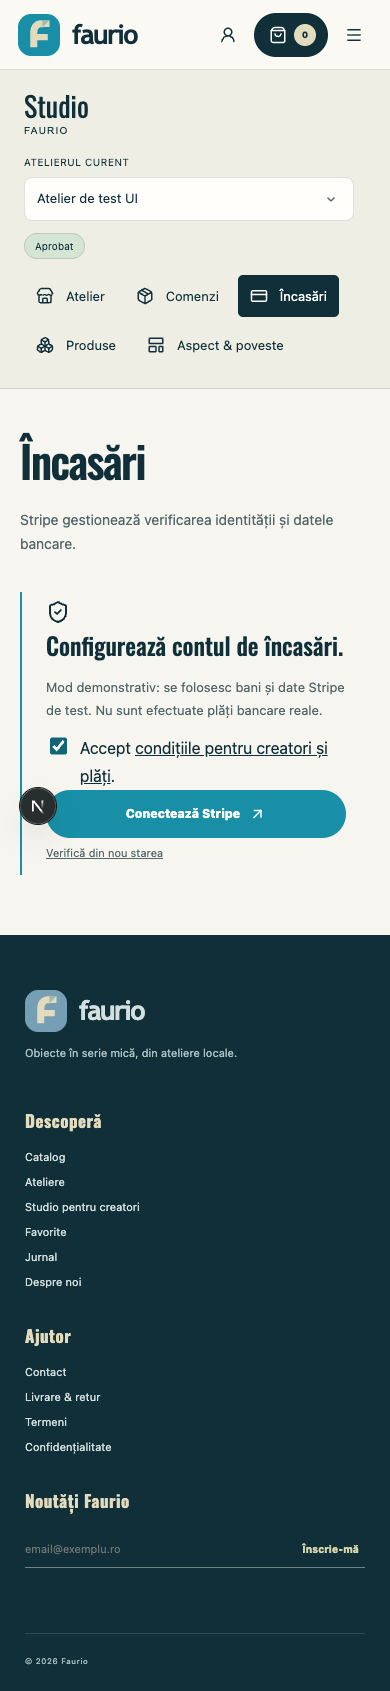
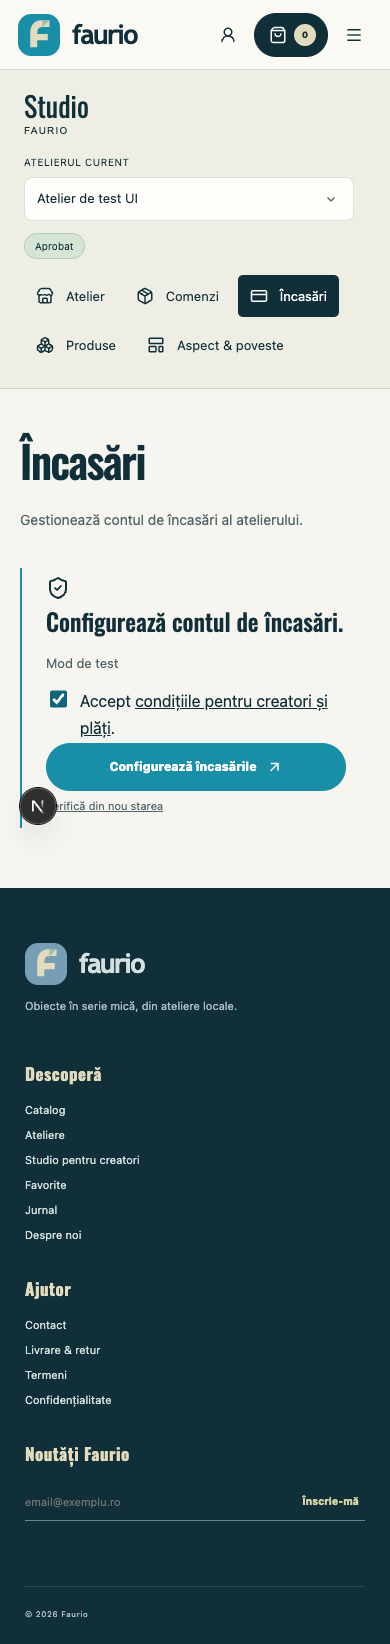
Allow authors to delete reviews and clarify payment onboarding failures

diff --git a/components/product-feedback.tsx b/components/product-feedback.tsx
@@ -2,6 +2,7 @@
 
 import { useEffect, useRef, useState, type FormEvent } from "react";
 import Link from "next/link";
+import { useRouter } from "next/navigation";
 import { Check, ChevronLeft, ChevronRight, MessageSquare, RotateCw, ShieldCheck, Star } from "lucide-react";
 import { useAuth } from "@/components/auth-provider";
 import { studioRequest } from "@/lib/marketplace/client";
@@ -15,6 +16,7 @@ export function ProductFeedback({ productId, initial }: { productId: string; ini
 }
 
 function ProductFeedbackContent({ productId, initial, authenticated, loading, accessToken }: { productId: string; initial: ReviewPage; authenticated: boolean; loading: boolean; accessToken: string | null }) {
+  const router = useRouter();
   const [reviews, setReviews] = useState(initial);
   const [eligibility, setEligibility] = useState<ReviewEligibility | null>(null);
   const [eligibilityError, setEligibilityError] = useState("");
@@ -25,6 +27,8 @@ function ProductFeedbackContent({ productId, initial, authenticated, loading, ac
   const [reading, setReading] = useState(false);
   const [error, setError] = useState("");
   const [submitted, setSubmitted] = useState(false);
+  const [confirmDelete, setConfirmDelete] = useState(false);
+  const [deleted, setDeleted] = useState(false);
   const submitting = useRef(false);
   const reader = useRef<AbortController | null>(null);
   useEffect(() => () => reader.current?.abort(), []);
@@ -53,7 +57,18 @@ function ProductFeedbackContent({ productId, initial, authenticated, loading, ac
     submitting.current = true; setBusy(true); setError("");
     try {
       await studioRequest("/api/reviews", accessToken, { method: "POST", body: JSON.stringify({ productId, rating, body: body.trim() }) });
-      setSubmitted(true); setBody("");
+      setSubmitted(true); setDeleted(false); setBody(""); setEligibilityRevision(value => value + 1);
+    } catch (caught) { setError((caught as Error).message); }
+    finally { submitting.current = false; setBusy(false); }
+  }
+  async function removeReview() {
+    if (submitting.current || !accessToken || !eligibility?.ownReview) return;
+    submitting.current = true; setBusy(true); setError("");
+    try {
+      await studioRequest("/api/reviews", accessToken, { method: "DELETE", body: JSON.stringify({ id: eligibility.ownReview.id }) });
+      setConfirmDelete(false); setSubmitted(false); setDeleted(true); setRating(0); setBody(""); setEligibility(null);
+      setEligibilityRevision(value => value + 1);
+      await readPage(reviews.page); router.refresh();
     } catch (caught) { setError((caught as Error).message); }
     finally { submitting.current = false; setBusy(false); }
   }
@@ -66,10 +81,15 @@ function ProductFeedbackContent({ productId, initial, authenticated, loading, ac
           : <>{reviews.reviews.map(review => <article className="feedback-review" key={review.id}><div className="feedback-review-top"><span className="feedback-stars" aria-label={`${review.rating} din 5 stele`}>{[1, 2, 3, 4, 5].map(value => <Star key={value} aria-hidden="true" fill={value <= review.rating ? "currentColor" : "none"} size={16} />)}</span><time dateTime={review.created_at}>{date(review.created_at)}</time></div><p>{review.body}</p><span className="feedback-verified">{review.verified_purchase ? <><ShieldCheck size={14} /> Achiziție verificată</> : "Utilizator înregistrat"}</span></article>)}
             {reviews.pageCount > 1 && <nav className="feedback-pagination" aria-label="Pagini recenzii"><button aria-label="Recenzii anterioare" disabled={reading || reviews.page <= 1} onClick={() => readPage(reviews.page - 1)}><ChevronLeft size={18} /></button><span>{reviews.page} / {reviews.pageCount}</span><button aria-label="Recenzii următoare" disabled={reading || reviews.page >= reviews.pageCount} onClick={() => readPage(reviews.page + 1)}><ChevronRight size={18} /></button></nav>}</>}
       </div>
-      <div className="feedback-compose"><h3>Scrie o recenzie</h3>
+      <div className="feedback-compose"><h3>{eligibility?.ownReview ? "Recenzia ta" : "Scrie o recenzie"}</h3>
+        {deleted && <p role="status">Recenzia a fost ștearsă.</p>}
+        {submitted && <p className="feedback-success" role="status"><Check size={18} /> Recenzia și comentariul au fost trimise la moderare. Mulțumim!</p>}
         {loading ? <p role="status">Se verifică sesiunea…</p> : !authenticated ? <><p>Intră în cont pentru a lăsa o recenzie.</p><Link className="studio-secondary" href={`/cont?next=${encodeURIComponent(`/produs/${productId}#recenzii`)}`}>Autentifică-te</Link></>
           : eligibilityError ? <><p role="alert">{eligibilityError}</p><button className="text-button" onClick={() => { setEligibilityError(""); setEligibility(null); setEligibilityRevision(value => value + 1); }}>Reîncearcă verificarea</button></>
-          : submitted ? <p className="feedback-success" role="status"><Check size={18} /> Recenzia și comentariul au fost trimise la moderare. Mulțumim!</p>
+          : eligibility?.ownReview ? <div className="feedback-own-review"><span className="feedback-stars" aria-label={`${eligibility.ownReview.rating} din 5 stele`}>{[1, 2, 3, 4, 5].map(value => <Star key={value} aria-hidden="true" fill={value <= eligibility.ownReview!.rating ? "currentColor" : "none"} size={16} />)}</span><p>{eligibility.ownReview.body}</p><p>{({ pending: "În curs de moderare", approved: "Publicată", rejected: "Nepublicată" })[eligibility.ownReview.status]}</p>
+            {confirmDelete ? <div className="feedback-delete-confirm"><p>Ștergi definitiv recenzia?</p><div><button className="studio-secondary" disabled={busy} onClick={() => setConfirmDelete(false)}>Anulează</button><button className="studio-secondary" disabled={busy} onClick={removeReview}>{busy ? "Se șterge…" : "Confirmă ștergerea"}</button></div></div> : <button className="studio-text-button" disabled={busy} onClick={() => setConfirmDelete(true)}>Șterge recenzia</button>}
+          </div>
+          : submitted ? null
           : !eligibility ? <p role="status">Se verifică achizițiile…</p>
           : eligibility.ownProduct ? <p>Nu poți recenza produsele propriului atelier.</p>
           : eligibility.hasReview ? <p>Ai trimis deja o recenzie. Recenziile aprobate apar aici după moderare.</p>

diff --git a/app/api/studio/payments/route.ts b/app/api/studio/payments/route.ts
@@ -5,6 +5,17 @@ import { getStripeClient } from "@/lib/stripe";
 import { syncConnectedAccount } from "@/lib/commerce/connect";
 import { FEE_POLICY_VERSION } from "@/lib/commerce/fees";
 import { getSiteUrl } from "@/lib/site-url";
+import { connectFailure } from "@/lib/commerce/connect-errors";
+
+async function connectRequest<T>(operation: () => Promise<T>) {
+  try { return await operation(); }
+  catch (error) {
+    const failure = connectFailure(error);
+    if (!failure) throw error;
+    console.error("CONNECT_REQUEST_FAILED", { code: failure.code, providerRequestId: error && typeof error === "object" && "requestId" in error && typeof error.requestId === "string" ? error.requestId : undefined });
+    throw new ApiError(failure.status, failure.code, failure.message);
+  }
+}
 
 export const GET = api(async (request) => {
   const shopId = z.uuid().parse(new URL(request.url).searchParams.get("shop"));
@@ -13,7 +24,7 @@ export const GET = api(async (request) => {
   databaseError(error);
   if (!data) return Response.json({ connected: false, enabled: process.env.STRIPE_CONNECT_ENABLED === "true", testMode: true, ready: false });
   const stripe = getStripeClient();
-  const status = stripe ? await syncConnectedAccount(await stripe.accounts.retrieve(String(data.stripe_account_id))) : { ready: false };
+  const status = stripe ? await syncConnectedAccount(await connectRequest(() => stripe.accounts.retrieve(String(data.stripe_account_id)))) : { ready: false };
   return Response.json({ connected: true, enabled: process.env.STRIPE_CONNECT_ENABLED === "true", testMode: data.test_mode, ...status });
 });
 
@@ -22,30 +33,30 @@ export const POST = api(async (request) => {
   const auth = await requireShop(request, body.shopId, true);
   const { data: membership } = await auth.supabase.from("shop_memberships").select("role").eq("shop_id", body.shopId).eq("user_id", auth.user.id).is("revoked_at", null).single();
   if (membership?.role !== "owner" || !auth.user.email_confirmed_at) throw new ApiError(403, "OWNER_REQUIRED", "Doar titularul cu email confirmat poate configura încasările.");
-  if (process.env.STRIPE_CONNECT_ENABLED !== "true") throw new ApiError(503, "CONNECT_SETUP_REQUIRED", "Administratorul trebuie să activeze Stripe Connect în modul test.");
+  if (process.env.STRIPE_CONNECT_ENABLED !== "true") throw new ApiError(503, "CONNECT_SETUP_REQUIRED", "Administratorul trebuie să activeze configurarea încasărilor.");
   const stripe = getStripeClient(); const db = getSupabaseAdmin();
-  if (!stripe || !db) throw new ApiError(503, "PAYMENT_SETUP_REQUIRED", "Stripe nu este configurat.");
+  if (!stripe || !db) throw new ApiError(503, "PAYMENT_SETUP_REQUIRED", "Serviciul de încasări nu este configurat.");
   const { data: shop } = await auth.supabase.from("shops").select("name,country,status,is_legacy").eq("id", body.shopId).single();
   if (!shop || shop.is_legacy || shop.status !== "active") throw new ApiError(409, "APPROVAL_REQUIRED", "Încasările se configurează după aprobarea atelierului.");
   const { data: existing, error } = await db.from("shop_payment_accounts").select("stripe_account_id,test_mode").eq("shop_id", body.shopId).maybeSingle();
   databaseError(error);
   if (body.action === "dashboard") {
-    if (!existing?.test_mode) throw new ApiError(409, "ONBOARDING_REQUIRED", "Configurează mai întâi contul Stripe.");
-    const link = await stripe.accounts.createLoginLink(String(existing.stripe_account_id));
+    if (!existing?.test_mode) throw new ApiError(409, "ONBOARDING_REQUIRED", "Configurează mai întâi contul de încasări.");
+    const link = await connectRequest(() => stripe.accounts.createLoginLink(String(existing.stripe_account_id)));
     return Response.json({ url: link.url });
   }
   if (!body.acceptFeePolicy) throw new ApiError(400, "FEE_CONSENT_REQUIRED", "Acceptă condițiile pentru creatori și plăți înainte de configurare.");
   const { error: consentError } = await db.from("seller_fee_acceptances").upsert({ shop_id: body.shopId, user_id: auth.user.id, version: FEE_POLICY_VERSION, accepted_at: new Date().toISOString() });
   databaseError(consentError);
-  const accountId = existing?.stripe_account_id || (await stripe.accounts.create({ type: "express", country: shop.country, email: auth.user.email,
+  const accountId = existing?.stripe_account_id || (await connectRequest(() => stripe.accounts.create({ type: "express", country: shop.country, email: auth.user.email,
     capabilities: { card_payments: { requested: true }, transfers: { requested: true } }, metadata: { shop_id: body.shopId, platform: "faurio" } },
-    { idempotencyKey: `faurio-connect-test-${body.shopId}` })).id;
+    { idempotencyKey: `faurio-connect-test-${body.shopId}` }))).id;
   if (!existing) {
     const { error: saveError } = await db.from("shop_payment_accounts").insert({ shop_id: body.shopId, stripe_account_id: accountId, test_mode: true });
     if (saveError && saveError.code !== "23505") databaseError(saveError);
   }
   const origin = getSiteUrl();
-  const link = await stripe.accountLinks.create({ account: String(accountId), type: "account_onboarding",
-    refresh_url: `${origin}/studio/payments?shop=${body.shopId}&refresh=1`, return_url: `${origin}/studio/payments?shop=${body.shopId}&returned=1` });
+  const link = await connectRequest(() => stripe.accountLinks.create({ account: String(accountId), type: "account_onboarding",
+    refresh_url: `${origin}/studio/payments?shop=${body.shopId}&refresh=1`, return_url: `${origin}/studio/payments?shop=${body.shopId}&returned=1` }));
   return Response.json({ url: link.url });
 });

diff --git a/components/studio-payments.tsx b/components/studio-payments.tsx
@@ -29,17 +29,17 @@ export function StudioPayments() {
     try {
       const result = await studioRequest<{ url: string }>("/api/studio/payments", token, { method: "POST", body: JSON.stringify({ shopId: shop.id, action, acceptFeePolicy: accepted }) });
       const url = new URL(result.url);
-      if (url.protocol !== "https:" || !["connect.stripe.com", "dashboard.stripe.com"].includes(url.hostname)) throw new Error("Stripe nu a returnat o adresă validă.");
+      if (url.protocol !== "https:" || !["connect.stripe.com", "dashboard.stripe.com"].includes(url.hostname)) throw new Error("Serviciul de încasări nu a returnat o adresă validă.");
       window.location.assign(url.href);
     } catch (caught) { setError((caught as Error).message); setBusy(false); }
   }
-  return <section><header className="studio-heading"><h1>Încasări</h1><p>Stripe gestionează verificarea identității și datele bancare.</p></header>
-    <div className="studio-finance-notice"><ShieldCheck /><h2>{status?.ready ? "Stripe a activat încasările de test." : "Configurează contul de încasări."}</h2><p>Mod demonstrativ: se folosesc bani și date Stripe de test. Nu sunt efectuate plăți bancare reale.</p>
+  return <section><header className="studio-heading"><h1>Încasări</h1><p>Gestionează contul de încasări al atelierului.</p></header>
+    <div className="studio-finance-notice"><ShieldCheck /><h2>{status?.ready ? "Contul de încasări este activ." : "Configurează contul de încasări."}</h2><p>Mod de test</p>
       {error && <p className="form-error" role="alert">{error}</p>}
-      {!status && !error && <p role="status">Se verifică starea Stripe…</p>}
-      {status && !status.enabled && <p className="form-notice">Administratorul trebuie să activeze Stripe Connect și migrarea financiară. Nu introducem date bancare în Faurio.</p>}
+      {!status && !error && <p role="status">Se verifică starea contului…</p>}
+      {status && !status.enabled && <p className="form-notice">Administratorul trebuie să activeze configurarea încasărilor.</p>}
       {shop.status !== "active" && <p>Configurarea este disponibilă după aprobarea atelierului.</p>}
-      {shop.role === "owner" && status?.enabled && shop.status === "active" && <><label className="studio-check"><input type="checkbox" checked={accepted} onChange={(event) => setAccepted(event.target.checked)} /><span>Accept <Link href="/termeni#comisioane" target="_blank">condițiile pentru creatori și plăți</Link>.</span></label><div className="studio-form-actions"><button className="primary-button" disabled={busy || !accepted} onClick={() => open("onboard")}>{busy ? "Se deschide…" : status.connected ? "Continuă configurarea Stripe" : "Conectează Stripe"}<ArrowUpRight size={18} /></button>{status.connected && <button className="studio-secondary" disabled={busy} onClick={() => open("dashboard")}>Panoul Stripe <ArrowUpRight size={18} /></button>}</div></>}
+      {shop.role === "owner" && status?.enabled && shop.status === "active" && <><label className="studio-check"><input type="checkbox" checked={accepted} onChange={(event) => setAccepted(event.target.checked)} /><span>Accept <Link href="/termeni#comisioane" target="_blank">condițiile pentru creatori și plăți</Link>.</span></label><div className="studio-form-actions"><button className="primary-button" disabled={busy || !accepted} onClick={() => open("onboard")}>{busy ? "Se deschide…" : status.connected ? "Continuă configurarea" : "Configurează încasările"}<ArrowUpRight size={18} /></button>{status.connected && <button className="studio-secondary" disabled={busy} onClick={() => open("dashboard")}>Deschide contul <ArrowUpRight size={18} /></button>}</div></>}
       <button className="studio-text-button" disabled={busy} onClick={refresh}>Verifică din nou starea</button>
     </div>
   </section>;

diff --git a/app/api/reviews/route.ts b/app/api/reviews/route.ts
@@ -3,8 +3,8 @@ import { api, ApiError, databaseError, readJson, requireAuth } from "@/lib/marke
 import { getSupabaseAdmin } from "@/lib/supabase-server";
 import { getProductById } from "@/lib/products";
 import { getProductReviews } from "@/lib/product-reviews";
-import { eligibleReviewOrders } from "@/lib/review-queries";
-import { reviewSubmissionSchema, type ReviewEligibility } from "@/lib/reviews";
+import { deleteOwnedReview, eligibleReviewOrders } from "@/lib/review-queries";
+import { reviewDeletionSchema, reviewSubmissionSchema, type ReviewEligibility } from "@/lib/reviews";
 
 export const GET = api(async request => {
   const params = new URL(request.url).searchParams;
@@ -17,15 +17,27 @@ export const GET = api(async request => {
   if (!db) throw new ApiError(503, "REVIEWS_UNAVAILABLE", "Recenziile nu sunt disponibile momentan.");
   const [membership, existing] = await Promise.all([
     auth.supabase.from("shop_memberships").select("shop_id").eq("shop_id", product.shopId || "00000000-0000-0000-0000-000000000000").eq("user_id", auth.user.id).is("revoked_at", null).limit(1),
-    auth.supabase.from("product_reviews").select("order_code").eq("product_id", productId).eq("buyer_id", auth.user.id).limit(1000),
+    auth.supabase.from("product_reviews").select("id,order_code,rating,body,status,created_at").eq("product_id", productId).eq("buyer_id", auth.user.id).order("created_at", { ascending: false }).limit(1),
   ]);
   databaseError(membership.error); databaseError(existing.error);
   const ownProduct = Boolean(membership.data?.length);
-  if (ownProduct) return Response.json({ hasReview: Boolean(existing.data?.length), ownProduct, verifiedPurchase: false } satisfies ReviewEligibility);
-  const reviewedCodes = (existing.data || []).map(review => review.order_code);
-  const { data, error } = await eligibleReviewOrders(db, auth.user.id, productId, reviewedCodes);
+  const review = existing.data?.[0];
+  const ownReview = review ? { id: review.id, rating: review.rating, body: review.body, status: review.status, created_at: review.created_at } : null;
+  if (ownProduct || ownReview) return Response.json({ hasReview: Boolean(ownReview), ownProduct, ownReview, verifiedPurchase: Boolean(review?.order_code) } satisfies ReviewEligibility);
+  const { data, error } = await eligibleReviewOrders(db, auth.user.id, productId, []);
   databaseError(error);
-  return Response.json({ hasReview: reviewedCodes.length > 0, ownProduct: false, verifiedPurchase: Boolean(data?.length) } satisfies ReviewEligibility);
+  return Response.json({ hasReview: false, ownProduct: false, ownReview: null, verifiedPurchase: Boolean(data?.length) } satisfies ReviewEligibility);
+});
+
+export const DELETE = api(async request => {
+  const auth = await requireAuth(request);
+  const body = await readJson(request, reviewDeletionSchema);
+  const db = getSupabaseAdmin();
+  if (!db) throw new ApiError(503, "REVIEWS_UNAVAILABLE", "Recenziile nu sunt disponibile momentan.");
+  const { data, error } = await deleteOwnedReview(db, auth.user.id, body.id);
+  databaseError(error);
+  if (!data) throw new ApiError(404, "REVIEW_NOT_FOUND", "Recenzia nu a fost găsită în contul tău.");
+  return Response.json({ deleted: true });
 });
 
 export const POST = api(async request => {

diff --git a/tests/e2e/product-reviews.spec.ts b/tests/e2e/product-reviews.spec.ts
@@ -36,7 +36,43 @@ test("every real product exposes its review section and anonymous visitors retur
   expect((await request.get(`/api/reviews?productId=${productId}&mode=eligibility`)).status()).toBe(401);
   expect((await request.get("/api/reviews?productId=missing-product" )).status()).toBe(404);
   expect((await request.post("/api/reviews", { data: {} })).status()).toBe(401);
+  expect((await request.delete("/api/reviews", { data: { id: "10000000-0000-4000-8000-000000000003" } })).status()).toBe(401);
   expect(errors).toEqual([]);
+});
+
+test("MOCK review author can cancel deletion, retry a failure and remove a pending or approved review", async ({page},info)=>{
+  await signInFixture(page);
+  const id="10000000-0000-4000-8000-000000000003";
+  let ownReview: object|null={id,rating:4,body:"Recenzia mea de test.",status:"pending",created_at:"2026-11-07T10:00:00Z"};
+  let deleteCalls=0;
+  await page.route("**/api/reviews**",route=>{
+    if(route.request().method()==="DELETE") {
+      expect(route.request().postDataJSON()).toEqual({id}); deleteCalls++;
+      if(deleteCalls===1) return route.fulfill({status:503,json:{error:"Ștergerea nu este disponibilă momentan."}});
+      ownReview=null;return route.fulfill({json:{deleted:true}});
+    }
+    if(new URL(route.request().url()).searchParams.get("mode")==="eligibility") return route.fulfill({json:{hasReview:Boolean(ownReview),ownProduct:false,verifiedPurchase:false,ownReview}});
+    return route.fulfill({json:{reviews:[],total:0,rating:0,page:1,pageCount:0,available:true}});
+  });
+  await page.goto(`${productPath}#recenzii`);
+  const panel=page.locator('.feedback-compose');
+  await expect(panel).toContainText("Recenzia mea de test.");
+  await expect(panel).toContainText("În curs de moderare");
+  await panel.getByRole('button',{name:'Șterge recenzia',exact:true}).click();
+  await panel.getByRole('button',{name:'Anulează',exact:true}).click();
+  expect(deleteCalls).toBe(0);
+  ownReview={id,rating:4,body:"Recenzia mea de test.",status:"approved",created_at:"2026-11-07T10:00:00Z"};
+  await page.reload();await expect(panel).toContainText("Publicată");
+  await panel.getByRole('button',{name:'Șterge recenzia',exact:true}).click();
+  await page.locator('#recenzii').screenshot({path:info.outputPath(`MOCK-delete-review-${info.project.name}.png`)});
+  await panel.getByRole('button',{name:'Confirmă ștergerea',exact:true}).click();
+  await expect(page.locator('#recenzii').getByRole('alert')).toContainText("Ștergerea nu este disponibilă");
+  await expect(panel).toContainText("Recenzia mea de test.");
+  await panel.getByRole('button',{name:'Confirmă ștergerea',exact:true}).click();
+  await expect(panel.getByText("Recenzia a fost ștearsă.",{exact:true})).toBeVisible();
+  await expect(page.locator('.feedback-form')).toBeVisible();
+  await expect(page.locator('.feedback-score')).toHaveCount(0);
+  expect(deleteCalls).toBe(2);
 });
 
 test("MOCK eligible buyer selects stars, comments, retries a rejected submission and sees moderation status", async ({ page }, info) => {

diff --git a/tests/integration/marketplace.test.ts b/tests/integration/marketplace.test.ts
@@ -382,6 +382,29 @@ test("registered users can review without buying, with honest verification, one 
   assert.equal(await sqlValue<number>("select reviews as value from public.products where id=$1",[productId]),1);
 });
 
+test("owner-scoped review deletion recalculates public ratings and permits a new moderated opinion",async()=>{
+  const reviewer="30000000-0000-4000-8000-000000000002";
+  const productId=await sqlValue<string>("select id as value from public.products where name='Vază cu încasări'");
+  const id=await sqlValue<string>("select id as value from public.product_reviews where buyer_id=$1 and product_id=$2",[reviewer,productId]);
+  await asUser(reviewer,()=>assert.rejects(db.query("delete from public.product_reviews where id=$1",[id]),/permission denied/));
+  await db.query("select public.moderate_buyer_feedback($1,'reviews',$2,'approved','Relevant review')",[operator,id]);
+  assert.equal(await sqlValue<number>("select reviews as value from public.products where id=$1",[productId]),2);
+  await db.exec("set role service_role");
+  try {
+    assert.equal((await db.query("delete from public.product_reviews where id=$1 and buyer_id=$2 returning id",[id,sellerB])).rows.length,0);
+    assert.equal((await db.query("delete from public.product_reviews where id=$1 and buyer_id=$2 returning id",[id,reviewer])).rows.length,1);
+  } finally {await db.exec("reset role");}
+  assert.equal(await sqlValue<number>("select count(*)::int as value from public.public_product_reviews where id=$1",[id]),0);
+  assert.equal(await sqlValue<number>("select reviews as value from public.products where id=$1",[productId]),1);
+  assert.equal(Number(await sqlValue<number>("select rating as value from public.products where id=$1",[productId])),5);
+  const next=await asUser(reviewer,()=>sqlValue<string>("select public.submit_product_review(null,$1,3,'O nouă părere despre produs.') as value",[productId]));
+  assert.notEqual(next,id);
+  assert.equal(await sqlValue<string>("select status as value from public.product_reviews where id=$1",[next]),"pending");
+  await db.exec("set role service_role");
+  try {await db.query("delete from public.product_reviews where id=$1 and buyer_id=$2",[next,reviewer]);} finally {await db.exec("reset role");}
+  assert.equal(await sqlValue<number>("select reviews as value from public.products where id=$1",[productId]),1);
+});
+
 test("stale SMTP leases become uncertain instead of being sent again",async()=>{
   const claim=await sqlValue<{id:string;lock_token:string;attempts:number}>("select row_to_json(e) as value from public.claim_order_email('FAU-BUYER') e");
   assert.ok(claim);

diff --git a/tests/e2e/marketplace.mock.spec.ts b/tests/e2e/marketplace.mock.spec.ts
@@ -52,12 +52,29 @@ test("MOCK Connect: fee consent is required and onboarding redirects only to Str
   });
   await page.route("https://connect.stripe.com/**",route=>route.fulfill({contentType:"text/html",body:"<h1>MOCK Stripe onboarding</h1>"}));
   await page.goto(`/studio/payments?shop=${id}`);
-  const connect=page.getByRole("button",{name:"Conectează Stripe"});
+  const connect=page.getByRole("button",{name:"Configurează încasările"});
+  await expect(page.locator("main")).not.toContainText("Stripe");
+  await expect(page.getByText("Mod de test",{exact:true})).toBeVisible();
   await expect(connect).toBeDisabled();
   await page.getByRole("checkbox").check();await expect(connect).toBeEnabled();
   expect(await page.evaluate(()=>document.documentElement.scrollWidth<=window.innerWidth)).toBeTruthy();
   await page.screenshot({path:`docs/evidence/MOCK-connect-${info.project.name}.png`,fullPage:true});
   await connect.click();await expect(page).toHaveURL("https://connect.stripe.com/setup/fixture");expect(requested).toBeTruthy();
+});
+
+test("MOCK Connect: activation error is readable and never redirects or exposes provider branding",async({page})=>{
+  await studioFixture(page);
+  await page.route("**/api/studio/payments**",route=>route.request().method()==="POST"
+    ? route.fulfill({status:503,json:{error:"Configurarea încasărilor trebuie activată de administratorul platformei. Încearcă din nou după activare.",code:"CONNECT_ACTIVATION_REQUIRED"}})
+    : route.fulfill({json:{connected:false,enabled:true,ready:false,testMode:true}}));
+  await page.goto(`/studio/payments?shop=${id}`);
+  await page.getByRole("checkbox").check();
+  await page.getByRole("button",{name:"Configurează încasările"}).click();
+  await expect(page.locator("main").getByRole("alert")).toContainText("activată de administratorul platformei");
+  await expect(page.getByRole("button",{name:"Configurează încasările"})).toBeEnabled();
+  await expect(page.getByRole("checkbox")).toBeChecked();
+  await expect(page).toHaveURL(new RegExp(`/studio/payments\\?shop=${id}`));
+  await expect(page.locator("main")).not.toContainText("Stripe");
 });
 
 test("MOCK seller orders: real UI handles preparation, required tracking and delivery transitions",async({page},info)=>{

diff --git a/tests/unit/reviews.test.ts b/tests/unit/reviews.test.ts
@@ -1,13 +1,29 @@
 import { test } from "node:test";
 import assert from "node:assert/strict";
-import { reviewSubmissionSchema, safeAccountDestination } from "../../lib/reviews.ts";
+import { reviewDeletionSchema, reviewSubmissionSchema, safeAccountDestination } from "../../lib/reviews.ts";
 import { createClient } from "@supabase/supabase-js";
-import { eligibleReviewOrders } from "../../lib/review-queries.ts";
+import { deleteOwnedReview, eligibleReviewOrders } from "../../lib/review-queries.ts";
 import { createElement } from "react";
 import { renderToStaticMarkup } from "react-dom/server";
 import { ProductRating } from "../../components/product-rating.tsx";
 
 const submission = { code: "FAU-TEST", productId: "cana-luna-001", rating: 5, body: "O cană foarte frumoasă." };
+test("review deletion accepts only one review id, never a supplied owner or unbounded deletion", async () => {
+  const id = "10000000-0000-4000-8000-000000000003";
+  assert.deepEqual(reviewDeletionSchema.parse({id}),{id});
+  for (const value of [{}, {id:""}, {id:"not-a-uuid"}, {id,buyerId:"someone-else"}, {id,status:"approved"}]) assert.equal(reviewDeletionSchema.safeParse(value).success,false);
+  const db=createClient("https://fixture.supabase.co","fixture-key",{auth:{persistSession:false},global:{fetch:async(input,init)=>{
+    const url=new URL(String(input));
+    assert.equal(init?.method,"DELETE");assert.ok(init?.signal);
+    assert.equal(url.searchParams.get("buyer_id"),"eq.owner-from-verified-session");
+    assert.equal(url.searchParams.get("id"),`eq.${id}`);
+    assert.equal(url.searchParams.get("select"),"id");
+    return Response.json([{id}]);
+  }}});
+  assert.equal((await deleteOwnedReview(db,"owner-from-verified-session",id)).data?.id,id);
+  assert.throws(()=>deleteOwnedReview(db,"",id),/REVIEW_OWNER_REQUIRED/);
+  assert.throws(()=>deleteOwnedReview(db,"owner",""),/REVIEW_OWNER_REQUIRED/);
+});
 test("catalog stars show real counts, half stars and an honest empty rating",()=>{
   const populated=renderToStaticMarkup(createElement(ProductRating,{rating:4.5,count:2}));
   assert.match(populated,/4,5 din 5 stele, 2 recenzii/);

diff --git a/components/studio-overview.tsx b/components/studio-overview.tsx
@@ -12,5 +12,5 @@ export function StudioOverview() {
     <article className="studio-action-card"><ShieldCheck /><p className="eyebrow">01 · Verificare</p><h2>{stateLabels[shop.status]}</h2><p>{shop.status === "active" ? "Atelierul este aprobat. Poți publica pagina și trimite produsele la verificare." : shop.status === "pending_review" ? "Cererea ta a ajuns la noi. Între timp, poți pregăti pagina și produsele." : "Contactează echipa pentru detalii despre starea atelierului."}</p><span className="studio-step-state">{shop.status === "active" ? <Check size={16} /> : <Circle size={16} />} {stateLabels[shop.status]}</span></article>
     <article className="studio-action-card"><Palette /><p className="eyebrow">02 · Identitate</p><h2>Fă-l al tău.</h2><p>Alege atmosfera, scrie povestea, aranjează secțiunile. Publici când ești pregătit.</p><Link href={`/studio/appearance?shop=${shop.id}`}>Deschide editorul <ArrowUpRight size={16} /></Link></article>
     <article className="studio-action-card"><Package /><h2>Produse</h2><p>Gestionează listările, prețurile și stocurile.</p><Link href={`/studio/products?shop=${shop.id}`}>Gestionează produsele <ArrowUpRight size={16} /></Link></article>
-  </div><aside className="studio-finance-notice"><h2>Configurează încasările</h2><p>Conectează Stripe pentru a putea primi comenzi.</p><Link href={`/studio/payments?shop=${shop.id}`}>Deschide setările de plată →</Link></aside><StudioSettings /></section>;
+  </div><aside className="studio-finance-notice"><h2>Configurează încasările</h2><p>Activează contul de încasări pentru a primi comenzi.</p><Link href={`/studio/payments?shop=${shop.id}`}>Deschide setările de plată →</Link></aside><StudioSettings /></section>;
 }

diff --git a/lib/commerce/connect-errors.ts b/lib/commerce/connect-errors.ts
@@ -1,0 +1,11 @@
+type ConnectFailure = { status: number; code: string; message: string };
+
+export function connectFailure(error: unknown): ConnectFailure | null {
+  if (!error || typeof error !== "object" || !("type" in error) || typeof error.type !== "string" || !error.type.startsWith("Stripe")) return null;
+  const message = "message" in error && typeof error.message === "string" ? error.message : "";
+  if (/signed up for Connect|enable Connect/i.test(message)) return { status: 503, code: "CONNECT_ACTIVATION_REQUIRED", message: "Configurarea încasărilor trebuie activată de administratorul platformei. Încearcă din nou după activare." };
+  if (error.type === "StripeAuthenticationError" || error.type === "StripePermissionError") return { status: 503, code: "PAYMENT_SETUP_REQUIRED", message: "Configurarea încasărilor necesită intervenția administratorului platformei." };
+  if (error.type === "StripeRateLimitError") return { status: 429, code: "PAYMENT_RATE_LIMIT", message: "Prea multe cereri. Așteaptă puțin și încearcă din nou." };
+  if (error.type === "StripeInvalidRequestError") return { status: 409, code: "ONBOARDING_UNAVAILABLE", message: "Contul de încasări nu poate fi configurat momentan. Contactează-ne pentru verificarea configurării." };
+  return { status: 503, code: "PAYMENT_UNAVAILABLE", message: "Serviciul de încasări nu este disponibil momentan. Încearcă din nou." };
+}

diff --git a/tests/unit/connect-errors.test.ts b/tests/unit/connect-errors.test.ts
@@ -1,0 +1,17 @@
+import { test } from "node:test";
+import assert from "node:assert/strict";
+import { connectFailure } from "../../lib/commerce/connect-errors.ts";
+
+test("missing Connect activation is actionable and never leaks provider details into the UI",()=>{
+  const failure=connectFailure({type:"StripeInvalidRequestError",message:"You can only create new accounts if you've signed up for Connect, which you can do at https://dashboard.stripe.com/connect. SECRET"});
+  assert.equal(failure?.status,503);assert.equal(failure?.code,"CONNECT_ACTIVATION_REQUIRED");
+  assert.doesNotMatch(failure!.message,/Stripe|SECRET|https:/);
+});
+test("Connect failures preserve retryable service and rate limit errors without masking application errors",()=>{
+  for (const [type,status,code] of [["StripeRateLimitError",429,"PAYMENT_RATE_LIMIT"],["StripeAuthenticationError",503,"PAYMENT_SETUP_REQUIRED"],["StripePermissionError",503,"PAYMENT_SETUP_REQUIRED"],["StripeInvalidRequestError",409,"ONBOARDING_UNAVAILABLE"],["StripeConnectionError",503,"PAYMENT_UNAVAILABLE"]] as const) {
+    const result=connectFailure({type,message:"private-provider-details"});
+    assert.equal(result?.status,status);assert.equal(result?.code,code);assert.doesNotMatch(result!.message,/private-provider-details/);
+  }
+  assert.equal(connectFailure(new Error("database error")),null);
+  assert.equal(connectFailure(null),null);
+});

diff --git a/lib/reviews.ts b/lib/reviews.ts
@@ -6,7 +6,9 @@ export const reviewSubmissionSchema = z.object({
 }).strict();
 export type PublicReview = { id: string; rating: number; body: string; created_at: string; verified_purchase: boolean };
 export type ReviewPage = { reviews: PublicReview[]; total: number; rating: number; page: number; pageCount: number; available: boolean };
-export type ReviewEligibility = { hasReview: boolean; ownProduct: boolean; verifiedPurchase: boolean };
+export const reviewDeletionSchema = z.object({ id: z.uuid() }).strict();
+export type OwnReview = { id: string; rating: number; body: string; status: "pending" | "approved" | "rejected"; created_at: string };
+export type ReviewEligibility = { hasReview: boolean; ownProduct: boolean; verifiedPurchase: boolean; ownReview?: OwnReview | null };
 
 export function safeAccountDestination(value: string | null) {
   return value && (/^\/(?:studio(?:\/[^?#]*)?|sell)(?:\?[^#]*)?$/.test(value) || /^\/produs\/[a-zA-Z0-9_-]+(?:#recenzii)?$/.test(value)) ? value : "/cont/profil";
